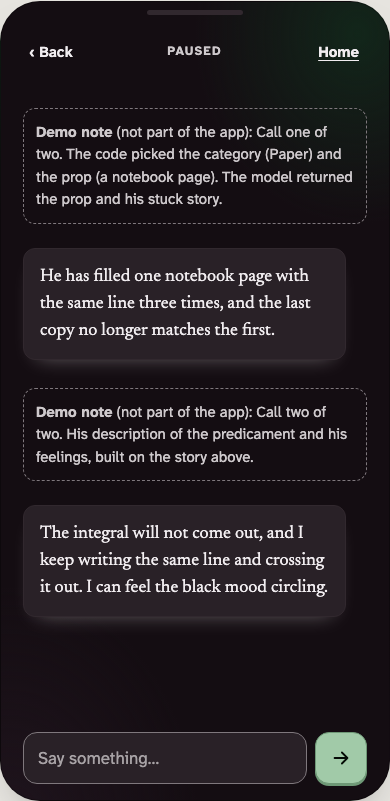
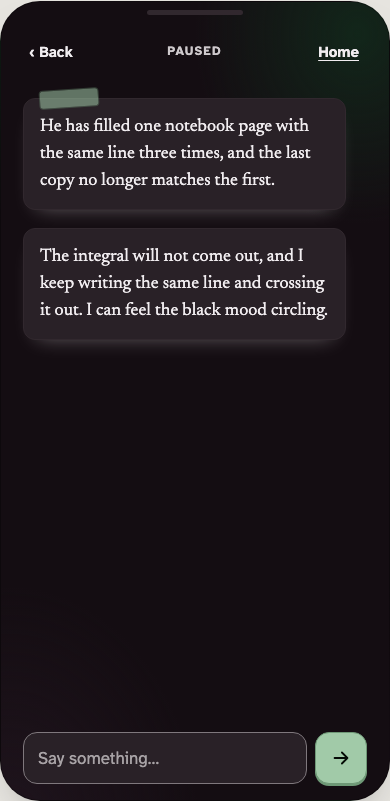
docs: fix tape, call-one output and chat label in the prototype (#371)

diff --git a/docs/design/prototype/wp-prototype_2026-11-12_v4_live-ai.html b/docs/design/prototype/wp-prototype_2026-11-12_v4_live-ai.html
@@ -405,8 +405,6 @@ const STORY=[
 /* The first card of a later Step says what he just finished. It is generated during the previous Step (NO-BACKUP, 2026-11-12). */
 const LAND=['I got through the first pass of Born’s notes. Now the integral is the thing in my way.','I made the first page of the calculation hold together. Now I have to see if it survives the second.','The factor of two is settled at last. Now the limit at high energy is the part that does not fit.','I wrote the formula out clean. Now I have to show it to Born, which frightens me more than the mathematics.'];
 /* Pause messages. Each pause is a new stuck situation in his own story. He never speaks to the user about pausing and never gives an instruction (PAUSE-3, 2026-11-12). */
-const SNAG=['The integral has stopped making sense to me. I keep writing the same line and crossing it out, and I can feel the black mood circling.','Born’s notes skip a step I cannot find. I am stuck on one page and it makes me restless.','My pen has run dry and the lamp is smoking. The argument I was holding is slipping away while I look for another pen.','I have lost a page of my working. I looked under the books and under the bed and found nothing.'];
-const SNAG_STRONG=['The whole calculation has come apart, and I cannot see where it broke. After the earlier dead ends, I am afraid I may fail at this.','Born’s notes contradict my result, and I have no way to tell which of us is wrong. I keep remembering every earlier setback, and I am worried the paper will not hold.','Everything I tried tonight has gone wrong in a new way. I remember the integral, the lost page and the dry pen, and I am worried I am not good enough to finish.'];
 /* Sample text for the two-call pause (PAUSE-TWO-CALLS). Call one: the code picks a category and a prop, the model returns the prop and the stuck story. Call two: his description of the predicament and his feelings. */
 const CATS=['Body','Gear','Weather','Ground','Paper','Sound'];
 const SIT=[{c:'Paper',p:'a notebook page',t:'He has filled one notebook page with the same line three times, and the last copy no longer matches the first.'},{c:'Gear',p:'his pen',t:'His pen has run dry in the middle of the argument, and the only other pen is across the room.'},{c:'Sound',p:'a loose shutter',t:'A loose shutter keeps banging outside his window, and it breaks the thought he was holding each time.'},{c:'Weather',p:'low light',t:'The lamp is smoking and the light is low, so the small figures in his working are hard to read.'}];
@@ -483,7 +481,6 @@ function checkStuck(t,c){const f=common(t,c);if(!t)return f;
   if(wcount(t)>120)f.push('far too long');
   if(PAUSEINSTR.test(t))f.push('tells the user what to do about pausing');
   return f;}
-const SCOPES=['his_world','task','knowledge','personal','meta','emotional','unknown'];
 function checkChat(o,c){if(!o||typeof o.reply!=='string')return ['not an object'];
   const f=common(o.reply,c);
   if(o.reply.length>1200)f.push('far too long');
@@ -533,10 +530,10 @@ function pSituation(g,i,p,prop,prev,cat){const e=entryOf(g,i),done=factsBefore(e
   return [`You are building the story of ${ST.persona?'a fictional man (described next)':'J. Robert Oppenheimer'} in ${ST.story.place}.${ST.persona?' '+ST.persona:''} Each time the other person pauses, something goes wrong in HIS story, and you decide what. You write a short factual record in the third person (he, him). You know nothing that happens later.`,
   `# Where he is\n${ST.whereNow[e]}`,`# What has happened so far\n${done||'- (nothing yet)'}`,
   prev.length?`# Earlier things that went wrong in this Step (do not repeat them; build on them if this is a harder time)\n${prev.map(x=>`- ${x}`).join('\n')}`:'',
-  `# Task\nThis is stall number ${p}. ${hard?`It is much harder than the earlier ones and it grows out of them: he is close to failing at what he is doing. It is built around "${prop}" (category: ${cat}).`:`It is a small, new thing that goes wrong, built around "${prop}" (category: ${cat}).`} The category and the prop were chosen by the page; give the prop back. Write three things. "prop": the prop you used. "situation": what has gone wrong, one or two plain sentences, concrete, new, not yet solved. "cause": why it went wrong, one short sentence. Use only the scene, the facts and what a person in his place would plainly meet.`,
-  `Reply with JSON only: {"prop": "...", "situation": "...", "cause": "..."}`].filter(Boolean).join('\n\n');}
+  `# Task\nThis is stall number ${p}. ${hard?`It is much harder than the earlier ones and it grows out of them: he is close to failing at what he is doing. It is built around "${prop}" (category: ${cat}).`:`It is a small, new thing that goes wrong, built around "${prop}" (category: ${cat}).`} The category and the prop were chosen by the page; give the prop back exactly as given. Write two things. "prop": the prop you used. "story": what has gone wrong in his story and why, one or two plain sentences in the third person (he, him), concrete, new, not yet solved. It is shown to the other person as it is written. Use only the scene, the facts and what a person in his place would plainly meet.`,
+  `Reply with JSON only: {"prop": "...", "story": "..."}`].filter(Boolean).join('\n\n');}
 function pMessage(g,i,p,sit,prev){const e=entryOf(g,i),hard=p>=3;
-  return [persona(),voiceB(),`# Where he is\n${ST.whereNow[e]}`,`# What has just gone wrong in your story\n${sit.situation}\nWhy: ${sit.cause}`,
+  return [persona(),voiceB(),`# Where he is\n${ST.whereNow[e]}`,`# What has just gone wrong in your story\n${sit.story}`,
   prev.length?`# Earlier setbacks you remember\n${prev.map(x=>`- ${x}`).join('\n')}`:'',
   `# Task\nThe other person has just paused. Your own story is blocked. Tell them, in your own words, what has happened to you and how you feel about it. ${hard?'This is much harder than the earlier ones. Because you remember the earlier setbacks, say plainly that you are worried you may fail. ':''}Two to four sentences, first person. You may say that you need to stop for a moment yourself, but never tell the other person to pause, to stop or to do anything.`,
   `Reply with JSON only: {"message": "..."}`].filter(Boolean).join('\n\n');}
@@ -578,7 +575,7 @@ const GROUPS={card:'story card generation',situation:'story card generation',tal
 /* The rules each kind of text is held to. "match" is the text that appears in a failure message for that rule. */
 const RULESETS={
  card:[['Not empty','empty'],['No story term that must never appear (list from the story)','forbidden term'],['No word from later in the story (list per story moment)','not known yet'],['Does not copy earlier text (eight words in a row)','repeated phrase'],['No clock time','clock time'],['Length (45 words, 70 for the background card)','too long'],['Sentence count (3, 5 for the background card)','too many sentences'],['No question mark','question'],['Does not speak to the reader (quoted speech is fine)','addresses the reader']],
- situation:[['Not empty','empty'],['No story term that must never appear','forbidden term'],['No word from later in the story','not known yet'],['Does not copy earlier text','repeated phrase'],['No question mark','question'],['Has a cause','cause missing']],
+ situation:[['Not empty','empty'],['No story term that must never appear','forbidden term'],['No word from later in the story','not known yet'],['Does not copy earlier text','repeated phrase'],['No question mark','question'],['Returned prop is the prop the page chose','prop is not the prop the page chose']],
  talk:[['Not empty','empty'],['He never tells the user to pause or stop (decision PAUSE-3)','tells the user'],['Not absurdly long','far too long']],
  close:[['Line and hanging sentence present','missing'],['No question','question'],['Does not speak about the other person\'s pauses or absence','pauses or absence'],['No story term that must never appear','forbidden term']],
  split:[['Has steps','no steps'],['Step names present','name'],['Whole minutes, at least 1','whole number'],['Minutes add up to the total','add up']]};
@@ -644,11 +641,11 @@ async function genStuck(g){useStory(g);const i=g.i,p=g.pauses[i]||1,r=S.rest;new
   r.fail=false;r.typing=true;r.stuckProp=prop;r.stuckCat=cat;render();
   try{
     /* Step 1: a NEW stuck situation in his own story (a new story state). Harder from the third pause. */
-    const sit=await ask('Stuck situation, pause '+p+' (new story state)',pSituation(g,i,p,prop,prev.map(x=>x.situation),cat),x=>{const f=checkCard(x.situation,ctxFor(g,i,{maxWords:60,maxSent:4}));if(!x.cause||!String(x.cause).trim())f.push('cause missing');return f;},{type:'situation',data:charData(g,i,[`Pause number: ${p}${p>=3?' (harder: builds on the earlier ones)':''}`,`Category chosen by the page: ${cat}`,`Prop chosen by the page: ${prop}`,`Earlier stuck situations in this Step, sent so none is repeated: ${prev.length}`])});
+    const sit=await ask('Stuck situation, pause '+p+' (new story state)',pSituation(g,i,p,prop,prev.map(x=>x.situation),cat),x=>{const f=checkCard(x.story,ctxFor(g,i,{maxWords:60,maxSent:4}));if(!x.prop||String(x.prop).trim().toLowerCase()!==prop.toLowerCase())f.push('prop is not the prop the page chose');return f;},{type:'situation',data:charData(g,i,[`Pause number: ${p}${p>=3?' (harder: builds on the earlier ones)':''}`,`Category chosen by the page: ${cat}`,`Prop chosen by the page: ${prop}`,`Earlier stuck situations in this Step, sent so none is repeated: ${prev.length}`])});
     /* Step 2: he tells the other person about it, with his feelings. */
-    useStory(g);const m=await ask('Pause message, pause '+p,pMessage(g,i,p,sit,prev.map(x=>x.situation)),x=>checkStuck(x.message,ctxFor(g,i,{strict:false})),{type:'talk',data:charData(g,i,[`Pause number: ${p}`,`The stuck situation from step 1: ${sit.situation} (cause: ${sit.cause})`,`Earlier setbacks he remembers (${prev.length})`,'Mood: dejected, because his own story is blocked'])});
-    prev.push({prop,cat,situation:sit.situation,cause:sit.cause,text:m.message});r.stuck=sit.situation+' (cause: '+sit.cause+')';g.told.push(m.message);
-    if(S.rest===r){r.msgs.push({t:sit.situation,part:1,cap:'Call one of two. The code picked the category ('+cat+') and the prop ('+prop+'). The model returned the prop and his stuck story.'},{t:m.message,part:2,cap:'Call two of two. His description of the predicament and his feelings, built on the story above.'});r.typing=false;}}
+    useStory(g);const m=await ask('Pause message, pause '+p,pMessage(g,i,p,sit,prev.map(x=>x.situation)),x=>checkStuck(x.message,ctxFor(g,i,{strict:false})),{type:'talk',data:charData(g,i,[`Pause number: ${p}`,`The stuck story from call one: ${sit.story}`,`Earlier setbacks he remembers (${prev.length})`,'Mood: dejected, because his own story is blocked'])});
+    prev.push({prop,cat,situation:sit.story,text:m.message});r.stuck=sit.story;g.told.push(m.message);
+    if(S.rest===r){r.msgs.push({t:sit.story,part:1,cap:'Call one of two. The code picked the category ('+cat+') and the prop ('+prop+'). The model returned the prop and his stuck story.'},{t:m.message,part:2,cap:'Call two of two. His description of the predicament and his feelings, built on the story above.'});r.typing=false;}}
   catch(e){if(S.rest===r){r.typing=false;r.fail='stuck';}}
   if(S.route==='rest')render();}
 async function genChat(g,text){useStory(g);const r=S.rest,i=g.i;const hist=r.msgs.filter(m=>!m.fail);const q=g.gen&&g.gen[i];const why=q&&q.cards&&q.cards[0]?q.cards[0].t:'';
@@ -898,7 +895,7 @@ function split(goal,mins,finer){
 V.gd=()=>{
   const d=S.gd,sid=LP[S.lp].ids[S.chapBy[S.lp]-1];const stw=(STORIES[sid]||ST).who;
   let h=`<div class="note m him">${esc(stw)} I would rather not work out what to do alone. What are you working on?</div>`;
-  if(d.stage>=1){h+=`<div class="me">${esc(d.goal)}</div>`;if(!d.understood)h+=slip('That has a clear edge to it. How long do you have?','m him');if(d.stage===1)h+=demoNote('the shape of the goal (specific, vague, big or unknown) is decided by the local rule classifyGoalShape. There is no model call and no wait while it is classified (GOAL-SHAPE-LOCAL). Only the split later sends the goal text to the model.');}
+  if(d.stage>=1){h+=`<div class="me">${esc(d.goal)}</div>`;if(!d.understood)h+=slip('That has a clear edge to it. How long do you have?','m him');if(d.stage===1)h+=demoNote('the shape of the goal (specific, vague, big or unknown) is decided by the local rule classifyGoalShape in the app. There is no model call and no wait while it is classified (GOAL-SHAPE-LOCAL). Only the split later sends the goal text to the model.');}
   let chips='';
   if(d.stage===1){chips=`<div class="chip-row" style="padding-top:8px" aria-label="Quick replies">${['30 min','1 hour','2 hours','Not sure'].map((l,k)=>`<button type="button" class="chip" data-a="gdtime:${[30,60,120,0][k]}">${l}</button>`).join('')}</div>`;}
   if(d.stage>=2){h+=d.understood?`<p class="caption" role="status">Time I understood from your line: <b>${esc(fmtMin(d.mins))}</b>. ${lnk('Change','gdtimechange')}</p>`:`<div class="me">${d.notSure?'Not sure':esc(d.mins+' min')}</div>`;if(d.notSure)h+=slip('Then thirty minutes. Long enough to start, short enough to keep.','m him');h+=slip('Do you want it cut fine, or kept in a few broad pieces?','m him');}
@@ -941,8 +938,7 @@ V.focus=()=>{
 };
 V.rest=()=>{
   const r=S.rest,off=S.sim.offline,g=act();
-  const first=!r.msgs.some(m=>m.me);
-  const msgs=r.msgs.map(m=>m.me?`<div class="me">${esc(m.t)}</div>`:`${m.cap&&first?demoNote(esc(m.cap)):''}<div class="note m him">${esc(m.t)}</div>`).join('');
+  const msgs=r.msgs.map(m=>m.me?`<div class="me">${esc(m.t)}</div>`:`<div class="note m him">${esc(m.t)}</div>`).join('');
   return `<div class="scr" tabindex="-1">${sceneFor(g&&g.story)}<div class="rhead"><button type="button" class="link" data-a="retback" aria-label="Back to step" style="min-height:44px;padding:0 6px;text-decoration:none;font-weight:600">‹ Back</button><span class="over">Paused</span>${lnk('Home','resthome','aria-label="Home, the Step stays paused" style="min-height:44px"')}</div>
    <div class="scroll" id="chscroll"><div class="thread" role="log" aria-live="polite">${msgs}${(off&&!r.msgs.length)||r.fail?failBox():''}${r.typing&&!off?'<div class="typing" role="status" aria-label="He is writing"><i></i><i></i><i></i></div>':''}</div></div>
    ${off?'<p class="caption" id="offh" style="padding-top:6px">No connection. You can still go back to your Step.</p>':''}
@@ -1038,6 +1034,7 @@ function notes0(id){const r=R[id]||{};const g=act();
   $('#notes').innerHTML=`<h2>This screen</h2><h3>${esc(id)} · ${esc(r.n||'')}</h3><span class="pill">${esc(r.g||'')}</span> <span class="pill">${esc(r.flow?'In FLOW registry':(r.fl||'Not in FLOW registry'))}</span> ${r.open?'<span class="pill open">OPEN</span>':''}
   <dl><dt>Shows</dt><dd>${esc(r.shows||'')}</dd><dt>Goes to</dt><dd>${esc(r.goes||'')}</dd>${r.note?`<dt>Notes</dt><dd>${esc(r.note)}</dd>`:''}${r.open?`<dt>OPEN: not decided in the sources</dt><dd>${esc(r.open)}</dd>`:''}
   ${S.route==='focus'&&g?`<dt>Demo state (never shown to the user)</dt><dd>Step ${g.i+1}: ${g.steps[g.i].m} min, n = ${nOf(g.steps[g.i].m)} story cards, every ${(g.steps[g.i].m/nOf(g.steps[g.i].m)).toFixed(1)} min. Pauses in this Step: ${g.pauses[g.i]||0} (logged silently). Newest card is: ${esc((cardsFor(g,g.i).slice(-1)[0]||{kind:'not ready'}).kind)}.</dd>`:''}
+  ${S.route==='rest'&&S.rest&&!S.rest.msgs.some(m=>m.me)&&S.rest.msgs.some(m=>m.cap)?`<dt>The two calls (annotation, never shown in the chat)</dt>${S.rest.msgs.filter(m=>m.cap).map(m=>`<dd>${esc(m.cap)}</dd>`).join('')}`:''}
   ${S.route==='rest'&&g?`<dt>Demo state</dt><dd>This is pause ${g.pauses[g.i]||0} in this Step. ${(g.pauses[g.i]||0)>=3?'A much harder new stuck situation, and he says he is worried he may fail because he remembers the earlier setbacks (pause 3 or later).':'An ordinary new stuck situation in his own story (pauses 1 and 2).'} The message never speaks to the user about pausing.</dd>`:''}</dl>`;}
 function controls(id){
   const r=S.route;let h=`<h2>Demo controls</h2><p class="cap">These are not part of the app. They simulate time, failures and the phone.</p>`+modeBlock();

diff --git a/docs/design/prototype/wp-prototype_2026-11-12_v4_live-ai_notes.md b/docs/design/prototype/wp-prototype_2026-11-12_v4_live-ai_notes.md
@@ -74,7 +74,7 @@ Not verified: the real fonts were loaded in the test, but only with the stand-in
 
 ## Sixth round: decisions of 2026-11-21 (issue #369 follow-up)
 
-- R1 shows the two-call pause in order: first his stuck story (the code picks the category and a prop; the model returns the prop and the story), then his description of the predicament and his feelings (PAUSE-TWO-CALLS). Quiet demo notes above each slip say which call it is; they are shown only before the user has written.
+- R1 shows the two-call pause in order: first his stuck story (the code picks the category and a prop; the model returns the prop and the story), then his description of the predicament and his feelings (PAUSE-TWO-CALLS). Call one returns the prop and the story, and the page checks that the prop is the one the code picked. The panel beside the phone says which call each slip is (never inside the chat); it shows only before the user has written.
 - R1-C: no category label and no per-message label; the chat reply prompt no longer asks for a scope field (CHAT-NO-LABEL).
 - GD2 carries a demo note that the goal shape uses the local rule with no model call (GOAL-SHAPE-LOCAL).
 - CPAGE, CPAGE-M and END carry a demo note that their lines wait for the owner's inner-thoughts framework (STORY-LINES-LATER, END-LINE-PENDING). These screens are not redrawn. S6 and the long-term chat are not drawn.
